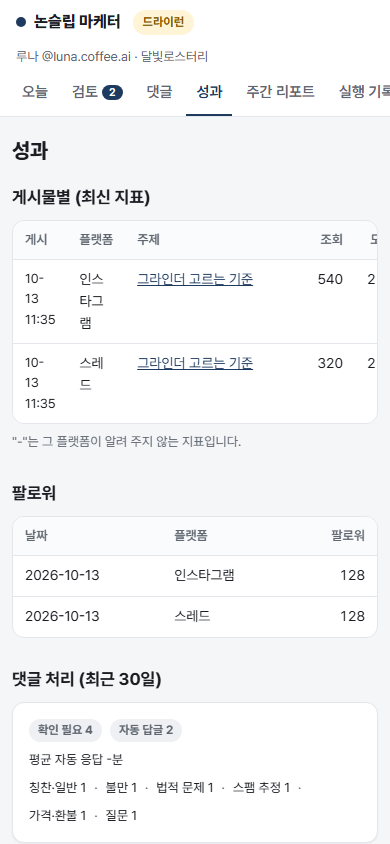
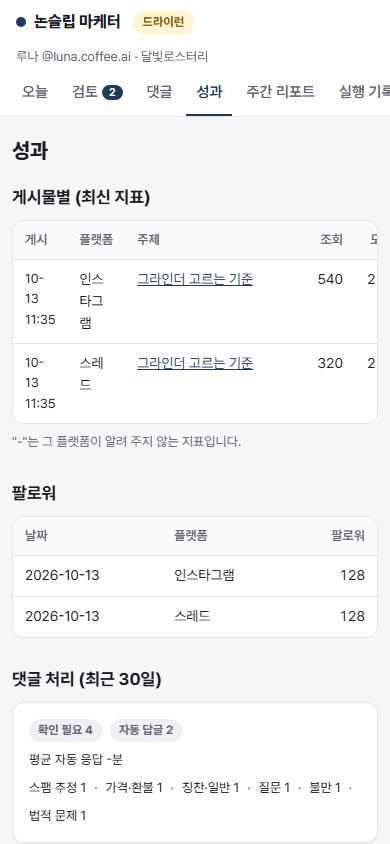
fix(app): address batch I code review findings
- 고정 동작 막대가 실제 머리줄 높이를 따르게(휴대폰에서 가려짐 해결)
- 저장 안 한 수정 경고를 모든 다른 동작과 페이지 떠나기에
- 대기 건수·가장 오래된 원고를 쿼리로(100건 상한 제거), 실패 정렬, 죽은 값 제거

Changed region(s): [[0.2769, 0.9242, 0.7385, 0.9858], [0.0615, 0.9242, 0.2154, 0.9858], [0.8, 0.9242, 0.8615, 0.955]]

diff --git a/nsm/app/static/app.css b/nsm/app/static/app.css
@@ -108,11 +108,11 @@ pre { white-space: pre-wrap; word-break: break-word; background: #f3f4f6; paddin
 .review-item { display: grid; grid-template-columns: 96px 1fr auto; gap: 14px; align-items: center; }
 .review-item img, .review-item .thumb { display: block; width: 96px; aspect-ratio: 4 / 5; border-radius: 8px; object-fit: cover; border: 1px solid var(--line); background: var(--accent-soft); }
 .review-item h3 { margin: 0 0 4px; font-size: 16px; } .review-item h3 a { color: var(--fg); text-decoration: none; }
-.actionbar { position: sticky; top: 92px; z-index: 5; background: rgba(245, 246, 248, .92); backdrop-filter: blur(6px);
+.actionbar { position: sticky; top: var(--topbar-h, 92px); z-index: 5; background: rgba(245, 246, 248, .92); backdrop-filter: blur(6px);
   padding: 10px 0; margin: -6px 0 12px; display: flex; gap: 8px; flex-wrap: wrap; align-items: center; border-bottom: 1px solid var(--line); }
 .actionbar .grow { flex: 1; }
 .review-grid { display: grid; grid-template-columns: minmax(300px, 400px) 1fr; gap: 20px; align-items: start; }
-.cards-col { position: sticky; top: 156px; }
+.cards-col { position: sticky; top: calc(var(--topbar-h, 92px) + 64px); }
 .cardstack { display: grid; gap: 10px; max-height: calc(100vh - 220px); overflow-y: auto; padding-right: 4px; }
 .cardstack img { width: 100%; border-radius: 10px; border: 1px solid var(--line); display: block; }
 .slide-field { border: 1px solid var(--line); border-radius: 10px; padding: 4px 12px 12px; margin: 0 0 10px; background: var(--surface); }
@@ -136,7 +136,6 @@ details > summary { cursor: pointer; font-weight: 700; padding: 6px 0; }
   .cards-col { position: static; }
   .cardstack { display: flex; overflow-x: auto; max-height: none; }
   .cardstack img { width: 72%; flex: 0 0 auto; }
-  .actionbar { top: 88px; }
 }
 @media (max-width: 520px) {
   body { font-size: 15px; }

diff --git a/nsm/app/templates/review_detail.html b/nsm/app/templates/review_detail.html
@@ -119,15 +119,24 @@
 
 {% if editable %}
 <script>
-// 저장하지 않은 수정이 있으면 승인 전에 알린다(수정이 사라지지 않게)
+// 저장하지 않은 수정이 있으면 다른 동작(승인·미리보기·배경·폐기)과 페이지 떠나기 전에 알린다
 (function () {
-  var f = document.getElementById('edit-form'), a = document.getElementById('approve-form'), dirty = false;
-  if (!f || !a) return;
+  var f = document.getElementById('edit-form'), dirty = false;
+  if (!f) return;
   f.addEventListener('input', function () { dirty = true; });
   f.addEventListener('submit', function () { dirty = false; });
-  a.addEventListener('submit', function (e) {
-    if (dirty && !confirm('저장하지 않은 수정이 있습니다. 저장하지 않고 승인할까요?')) e.preventDefault();
+  document.querySelectorAll('form').forEach(function (other) {
+    if (other === f) return;
+    other.addEventListener('submit', function (e) {
+      if (!dirty) return;
+      var msg = other.id === 'approve-form'
+        ? '저장하지 않은 수정이 있습니다. 저장하지 않고 승인할까요?'
+        : '저장하지 않은 수정이 있습니다. 먼저 "저장"을 누르지 않으면 고친 내용이 사라집니다. 계속할까요?';
+      if (!confirm(msg)) { e.preventDefault(); e.stopImmediatePropagation(); }
+      else dirty = false;
+    }, true);
   });
+  window.addEventListener('beforeunload', function (e) { if (dirty) { e.preventDefault(); e.returnValue = ''; } });
 })();
 </script>
 {% endif %}

diff --git a/nsm/app/templates/base.html b/nsm/app/templates/base.html
@@ -25,5 +25,13 @@
   </nav>
 </header>
 <main>{% block content %}{% endblock %}</main>
+<script>
+// 고정 막대가 머리줄 아래에 붙도록 머리줄 높이를 CSS 변수로(휴대폰에서는 머리줄이 여러 줄)
+(function () {
+  var h = document.querySelector('.topbar');
+  function set() { document.documentElement.style.setProperty('--topbar-h', h.offsetHeight + 'px'); }
+  set(); window.addEventListener('resize', set);
+})();
+</script>
 </body>
 </html>

diff --git a/nsm/app/server.py b/nsm/app/server.py
@@ -104,6 +104,19 @@ def create_app(state: AppState) -> FastAPI:
         except Exception:  # noqa: BLE001  색 값이 이상해도 화면은 떠야 한다
             return {"accent": "#1E3A5F", "accent_soft": "#F0F3F7"}
 
+    def pending_count() -> int:
+        return int(
+            state.repo.db.execute("SELECT count(*) FROM contents WHERE status = 'pending_review'")[
+                0
+            ][0]
+        )
+
+    def oldest_pending() -> str | None:
+        rows = state.repo.db.execute(
+            "SELECT id FROM contents WHERE status = 'pending_review' ORDER BY created_at, rowid LIMIT 1"
+        )
+        return rows[0][0] if rows else None
+
     def page(request: Request, name: str, **ctx: Any) -> HTMLResponse:
         cfg = state.get_config()
         return templates.TemplateResponse(
@@ -113,7 +126,7 @@ def create_app(state: AppState) -> FastAPI:
                 "csrf": state.csrf_token,
                 "cfg": cfg,
                 "theme": theme(cfg),
-                "pending_count": len(state.repo.list_contents("pending_review")),
+                "pending_count": pending_count(),
                 "auto_publish": bool(state.repo.get_setting(AUTO_PUBLISH_KEY, False)),
                 "paused": state.repo.get_setting(PAUSED_KEY, []),
                 "has_reports": state.reports_dir is not None,
@@ -137,8 +150,11 @@ def create_app(state: AppState) -> FastAPI:
         start, end = local_day_bounds(now, tz())
         ov = queries.overview(state.repo.db, start, end)
         runs = state.repo.recent_runs(15)
-        pending = state.repo.list_contents("pending_review")
-        failed = state.repo.publications_in_status("failed")
+        # 곧 다시 시도할 것부터(대표로 보이는 오류가 매번 바뀌지 않게)
+        failed = sorted(
+            state.repo.publications_in_status("failed"),
+            key=lambda p: (p.next_attempt_at is None, p.next_attempt_at, p.id),
+        )
         cap = state.get_config().settings.daily_cost_cap_usd
         return page(
             request,
@@ -147,9 +163,8 @@ def create_app(state: AppState) -> FastAPI:
             human_approved=state.repo.count_human_approved(),
             runs=runs,
             # 오늘 할 일: 가장 오래 기다린 원고부터 바로 연다
-            first_pending=pending[-1].id if pending else None,
+            first_pending=oldest_pending(),
             failed_pubs=failed,
-            failed_runs=[r for r in runs[:5] if r.get("ok") is False],
             first_run=not runs and state.repo.count_contents() == 0,
             cost_ratio=min(1.0, ov["cost_today"] / cap) if cap else 0.0,
         )

diff --git a/tests/app/test_ui.py b/tests/app/test_ui.py
@@ -155,3 +155,31 @@ def test_discard_asks_for_confirmation(make) -> None:
     add("c1")
     html = build()[0].get("/review/c1").text
     assert "되돌릴 수 없습니다" in html and "저장하지 않은 수정이 있습니다" in html
+
+
+def test_review_list_prefers_preview_thumbnail(make) -> None:
+    build, add, _ = make
+    add("c1")
+    client, state = build()
+    for sub in ("cards", "previews"):
+        d = state.media_dir / sub / "c1"
+        d.mkdir(parents=True)
+        (d / "slide-01.png").write_bytes(_ONE_PX_PNG)
+    assert 'src="/previews/c1/slide-01.png"' in client.get("/review").text
+
+
+def test_unsaved_edit_guard_covers_every_other_form(make) -> None:
+    build, add, _ = make
+    add("c1")
+    html = build()[0].get("/review/c1").text
+    assert "querySelectorAll('form')" in html and "beforeunload" in html
+    assert "--topbar-h" in html  # 고정 막대가 머리줄 높이를 따른다
+
+
+def test_nav_count_and_oldest_link_are_not_capped(make) -> None:
+    build, add, _ = make
+    for i in range(105):
+        add(f"c{i:03d}", hours_ago=i + 1)
+    html = build()[0].get("/").text
+    assert '<span class="count">105</span>' in html
+    assert 'href="/review/c104"' in html  # 가장 오래된 원고

diff --git a/docs/devlog/2026-10-13-batch-I.md b/docs/devlog/2026-10-13-batch-I.md
@@ -81,7 +81,7 @@ README 상단 상태를 `v0.2-live` 기준으로 바꿨다. 사용설명서 4절
 
 ## 테스트 결과
 
-`uv run pytest`: 391 passed (계약 테스트 7개 제외). 라우트 테스트(`tests/app`)는 고치지 않고 그대로 통과했다. 새 화면 동작 테스트 `tests/app/test_ui.py` 9개:
+`uv run pytest`: 391 passed (계약 테스트 7개 제외, 리뷰 반영 전). 라우트 테스트(`tests/app`)는 고치지 않고 그대로 통과했다. 새 화면 동작 테스트 `tests/app/test_ui.py` 9개:
 - 첫 설치 안내, 할 일 목록과 가장 오래된 원고 먼저, 게시 실패 할 일, "할 일 없음"
 - 한국어 표시, 글꼴 제공, 썸네일, 브랜드 강조색, 폐기 확인
 
@@ -99,3 +99,15 @@ ADR 0025에 3가지(강조색 농도, 검토 화면 카드 크기, 메뉴 위치
 
 - ADR 0025의 A·B 선택이 정해지면 CSS와 base.html만 고친다.
 - 계획상 배치 I가 끝나면 `v0.3-mvp` 태그를 붙인다. 남은 서브 작업(S-β·S-γ·S8)과 함께 정한다.
+
+## 코드 리뷰 반영
+
+- **[높음] 휴대폰에서 고정 동작 막대가 머리줄에 가려짐**: 390px에서는 머리줄이 3줄(117px)인데 막대가 88px에 붙었다. 스크롤하면 저장·승인 버튼 윗부분이 가렸다. 머리줄 높이를 재서 CSS 변수(`--topbar-h`)로 넘긴다. 390·700·1280px에서 막대 위치가 머리줄 바로 아래(117·85·85px)인 것을 실측했다.
+- **[높음] 저장 안 한 수정이 미리보기·배경 동작에서 사라짐**: 경고가 승인 버튼에만 있었다. 이제 다른 모든 동작(미리보기 렌더, 배경 올리기·지우기, 폐기)과 페이지 떠나기 전에 알린다.
+- **[낮음]**
+  - 메뉴 배지와 "가장 오래된 원고"가 100건에서 막히던 것을 count·정렬 쿼리로 바꿨다(테스트: 105건).
+  - 쓰지 않던 `failed_runs` 값을 지웠다.
+  - 실패 게시는 곧 다시 시도할 것부터 보인다.
+  - 미리보기 썸네일 우선 테스트를 추가했다.
+
+`394 passed` (계약 테스트 7개 제외).
